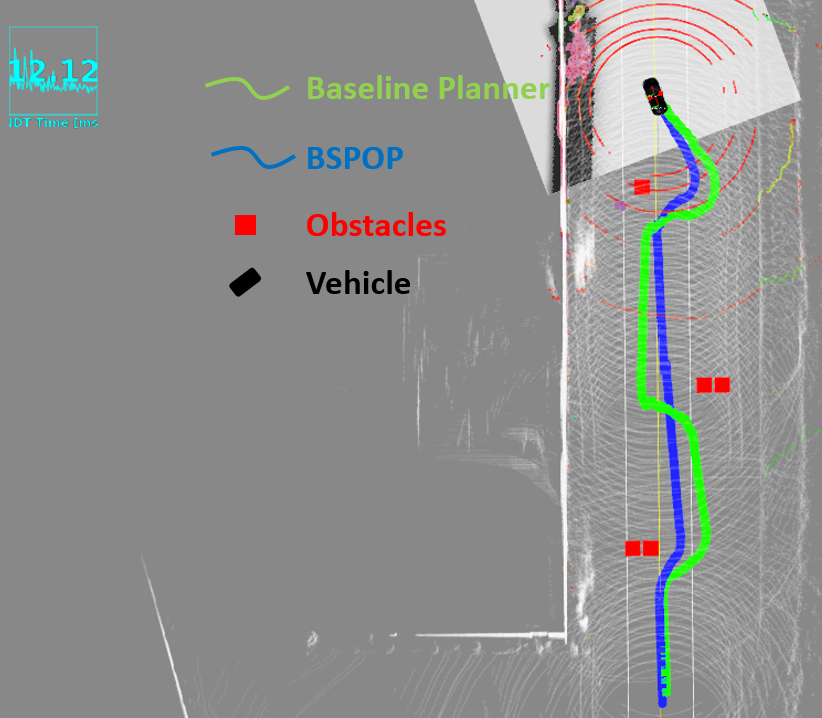
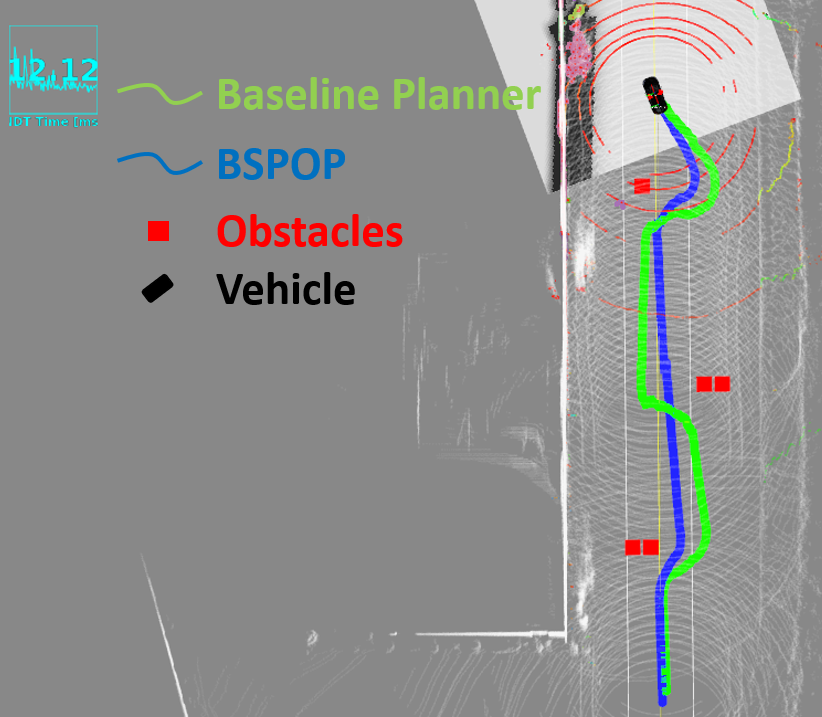
Final_update

diff --git a/casadi_minvo/plot_from_pickle.py b/casadi_minvo/plot_from_pickle.py
@@ -27,6 +27,10 @@ def distance_to_goal(position, goal):
 # ax.scatter(*zip(*success_point), c='b', s=2)
 # ax.scatter(*zip(*failed_point), c='r', s=1)
 
+plt.rcParams.update({'font.size': 24})
+plt.xlabel('x [m]')
+plt.ylabel('y [m]')    
+
 ### Target and Start Point ###
 target = (0.5, -0.5)
 start = (-4, 0)
@@ -124,7 +128,7 @@ with open('LOG_initial_theta_env23_mpc_sq.pkl', 'rb') as f:
     LOG_theta = pickle.load(f)
 
 ### Print Trajectory ###
-    
+
 
 for i in range(len(LOG_traj)):
     if len(LOG_traj[i][0]) > 0:
@@ -136,30 +140,32 @@ for i in range(len(LOG_traj)):
         else:
             plt.plot(LOG_traj[i][0], LOG_traj[i][1], 'r-', linewidth=0.5)
     # print(len(LOG_traj[i]))
+            
 
-ff = 18
-plt.xlabel('x [m]', fontsize=ff)
-plt.ylabel('y [m]', fontsize=ff)
-plt.xticks(fontsize=ff)
-plt.yticks(fontsize=ff)
+
+# ff = 19
+# plt.xlabel('x [m]', fontsize=ff)
+# plt.ylabel('y [m]', fontsize=ff)
+# plt.xticks(fontsize=ff)
+# plt.yticks(fontsize=ff)
 # plt.axis("equal")
 plt.show()
 
 
 
-for i in range(len(LOG_theta)):
-    if LOG_theta[i][0] == 1:
-        t_list = np.arange(0, len(LOG_traj[i][0]), 1)*0.05
-        plt.plot(t_list, LOG_theta[i][1], 'b-')
-    else:
-        t_list = np.arange(0, len(LOG_traj[i][0]), 1)*0.05
-        plt.plot(t_list, LOG_theta[i][1], 'r-')
+# for i in range(len(LOG_theta)):
+#     if LOG_theta[i][0] == 1:
+#         t_list = np.arange(0, len(LOG_traj[i][0]), 1)*0.05
+#         plt.plot(t_list, LOG_theta[i][1], 'b-')
+#     else:
+#         t_list = np.arange(0, len(LOG_traj[i][0]), 1)*0.05
+#         plt.plot(t_list, LOG_theta[i][1], 'r-')
 
-plt.axis([0, 10, -4, 4])
-plt.xlabel('time [s]')
-plt.ylabel('theta [rad]')
-plt.grid()
-plt.show()
+# plt.axis([0, 10, -4, 4])
+# plt.xlabel('time [s]')
+# plt.ylabel('theta [rad]')
+# plt.grid()
+# plt.show()
 
 # ### Print Obstacles ###
 # x = np.arange(-3.5,0.5,0.01)
